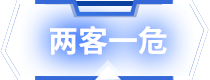
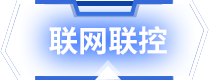
修改运输概况的绑定

Changed region(s): [[0.2286, 0.2, 0.8, 0.875]]

diff --git a/left.html b/left.html
@@ -38,10 +38,9 @@
               <div class="topbutton_new strait  ">琼州海峡</div>-->
 
             <div class="topbutton_1  yxzk active ">运输概况</div>
-            <div class="topbutton_1  lkyw  ">两客一危</div>
+            <div class="topbutton_1  lkyw  ">联网联控</div>
             <div class="topbutton_1 test  ">迁徙监测</div>
             <div class="topbutton_1 insight  ">迁徙洞察</div>
-
             <div class="topbutton_1 bridge  ">港珠澳大桥</div>
             <div class="topbutton_1 strait  ">琼州海峡</div>
         </div>

diff --git a/lkyw.html b/lkyw.html
@@ -12,7 +12,8 @@
 </head>
 <body >
 
-<img src="lkyw.png" style="width: 1920px;height: 1080px;display: block;"/>
+<!--<img src="lkyw.png" style="width: 1920px;height: 1080px;display: block;"/>-->
+<iframe style="width: 1920px;height: 1080px;position: absolute;left: 0px;top: 0px;border: none;" src="http://219.135.151.105:8005/Modules/Pages/Index.html"></iframe>
 <div style="position: absolute;top:0;left: 0;width: 1920px; height: 120px; background: url('lkyw_top.png')">
 
 </div>
